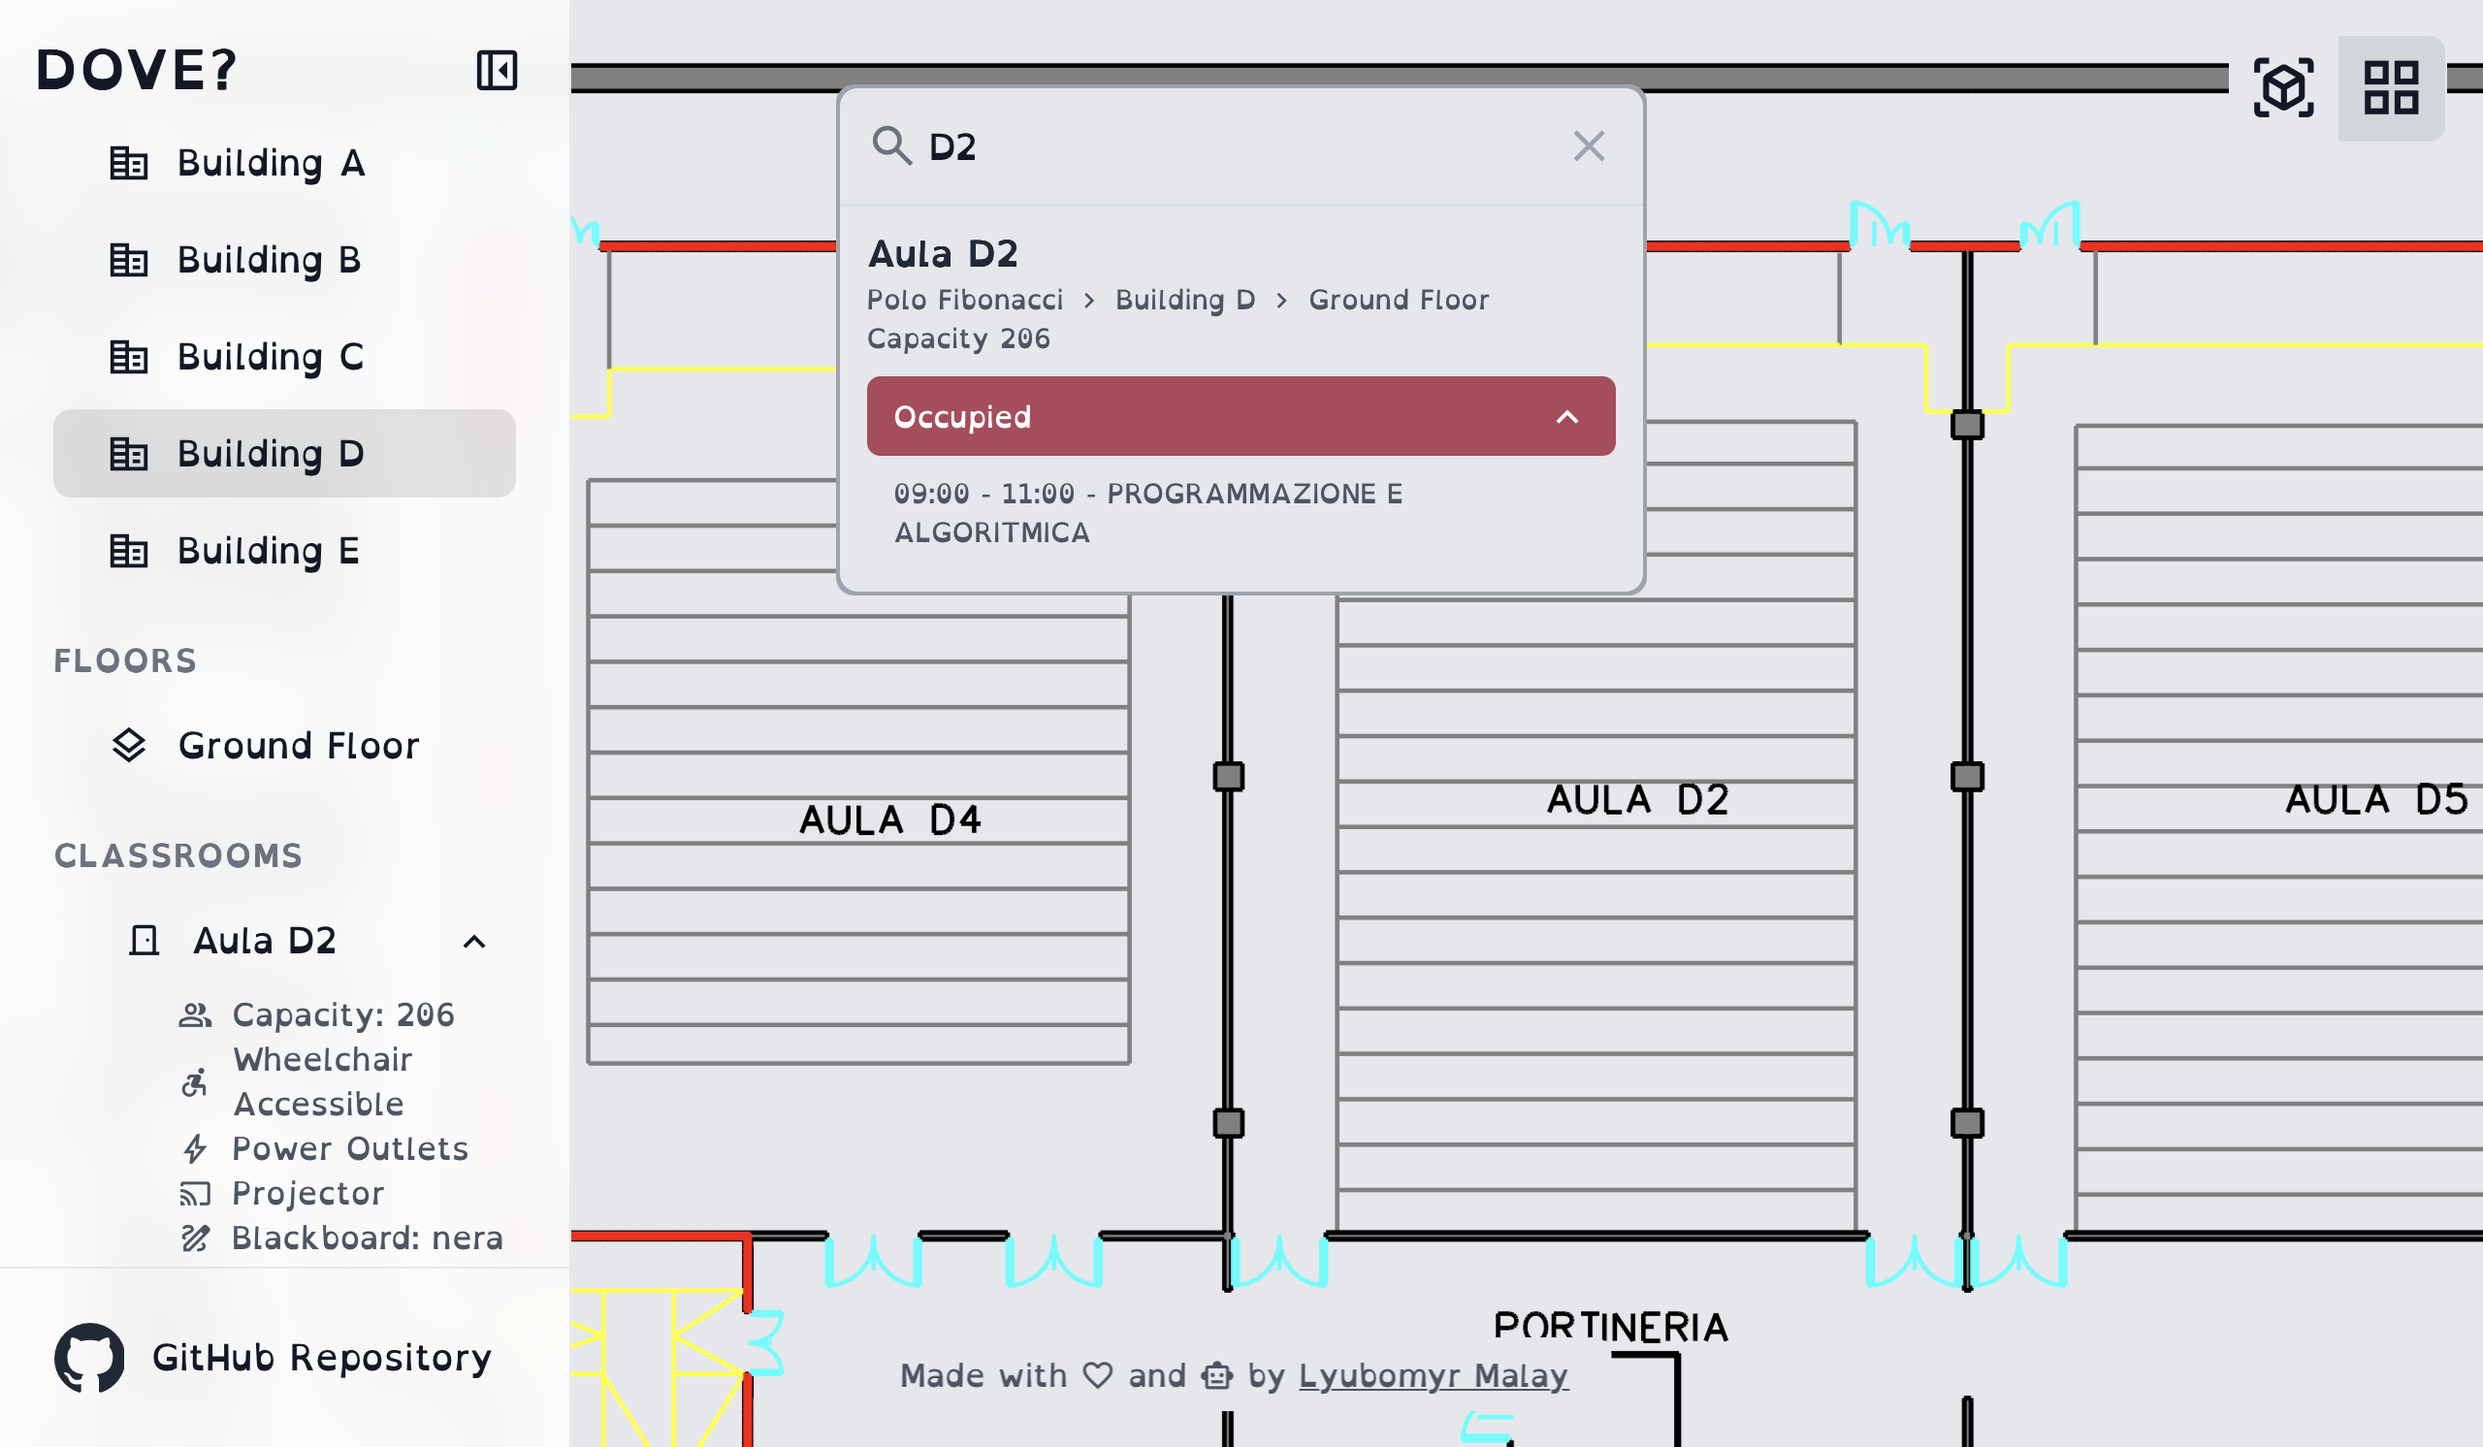
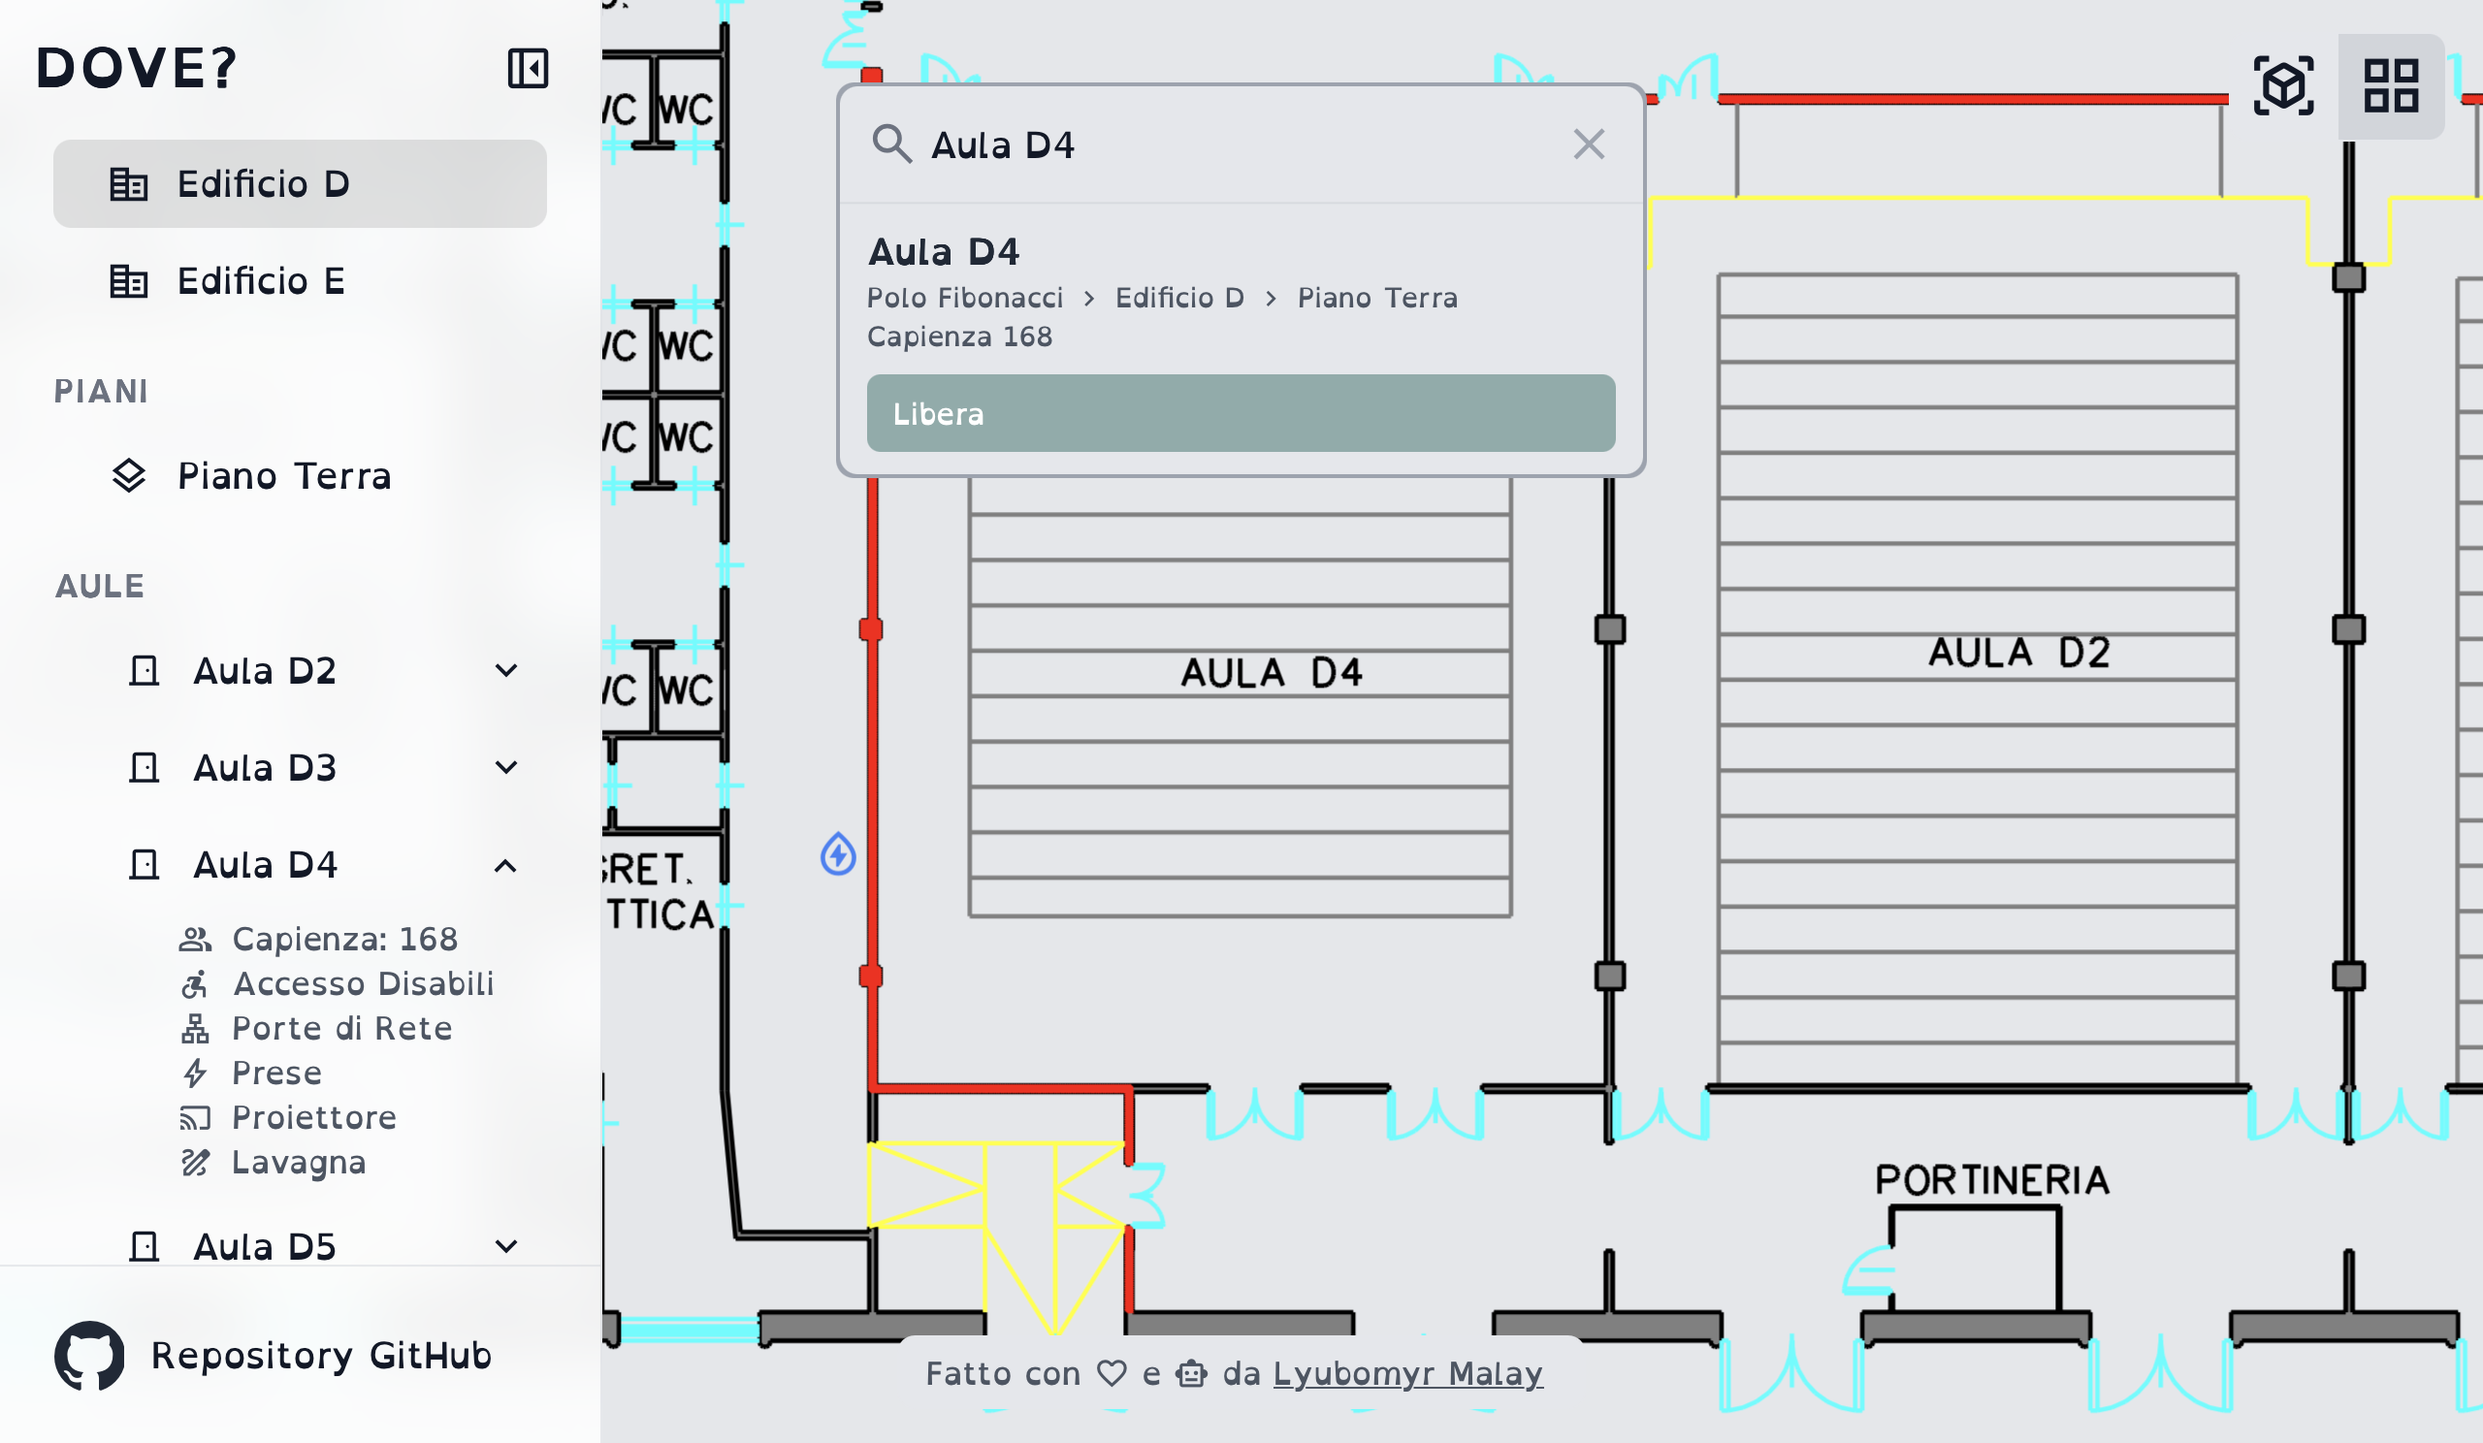
🐧
Aggiunto un leggero feedback visivo per incentivare ad aprire la sidebar.
Aggiunta la possibilità di cercare aule esatte utilizzando le virgolette " ".
I pin sulla mappa si ruotano quando la mappa viene ruotata.
Risolto il bug visivo dell’espansione dei dettagli nella sidebar che risultavano non allineati.
Risolto (forse) il problema dell’hover su mobile.
Rimosso il delay dalla ricerca.

diff --git a/index.html b/index.html
@@ -927,6 +927,9 @@ RMMMMRMMMMME        EMMMMMMMMMMMMM!
 
         #sidebar {
             transition: transform 0.3s ease-in-out;
+            max-width: 270px;
+            min-width: 270px;
+            width: 270px;
         }
 
         /* Stile per l'hover degli elementi */
@@ -949,6 +952,13 @@ RMMMMRMMMMME        EMMMMMMMMMMMMM!
             .hover-text-effect:hover {
                 color: #1F2937;
                 /* gray-800 */
+            }
+        }
+
+        /* Reset hover effects on touch devices to prevent sticky hover */
+        @media (hover: none) {
+            .nav-item:hover {
+                background-color: transparent;
             }
         }
 
@@ -1084,6 +1094,9 @@ RMMMMRMMMMME        EMMMMMMMMMMMMM!
             font-weight: 500;
             gap: 8px;
             transition: all 0.3s ease;
+            max-width: 100%;
+            box-sizing: border-box;
+            overflow: hidden;
         }
 
         .occupancy-status-bar.loading {
@@ -1118,12 +1131,20 @@ RMMMMRMMMMME        EMMMMMMMMMMMMM!
             }
         }
 
+        .occupancy-text {
+            flex: 1 1 auto;
+            word-wrap: break-word;
+            overflow-wrap: break-word;
+            white-space: normal;
+        }
+
         .occupancy-expand-icon {
             margin-left: auto;
             transition: transform 0.3s ease;
             cursor: pointer;
             font-size: 20px;
             user-select: none;
+            flex-shrink: 0;
         }
 
         .occupancy-expand-icon.expanded {
@@ -1146,6 +1167,9 @@ RMMMMRMMMMME        EMMMMMMMMMMMMM!
             font-size: 12px;
             color: #4b5563;
             line-height: 1.5;
+            word-wrap: break-word;
+            overflow-wrap: break-word;
+            white-space: normal;
         }
 
         .occupancy-details-content strong {
@@ -1265,6 +1289,11 @@ RMMMMRMMMMME        EMMMMMMMMMMMMM!
 
         #map.map-flipped {
             transform: rotate(180deg) translateZ(0);
+        }
+
+        /* Ruota le icone dei servizi quando la mappa è girata per mantenerle dritte */
+        #map.map-flipped .water-dispenser-marker .material-symbols-outlined {
+            transform: rotate(180deg);
         }
 
         .leaflet-map-pane,
@@ -1418,6 +1447,25 @@ RMMMMRMMMMME        EMMMMMMMMMMMMM!
             /* Aggiunto per coerenza */
             justify-content: center;
             /* Aggiunto per coerenza */
+        }
+
+        /* Animazione per invogliare l'apertura della sidebar */
+        @keyframes sidebar-button-pulse {
+            0% {
+                transform: scale(1);
+            }
+
+            50% {
+                transform: scale(1.08);
+            }
+
+            100% {
+                transform: scale(1);
+            }
+        }
+
+        #open-sidebar-button.pulse-animation {
+            animation: sidebar-button-pulse 0.6s ease-in-out 2;
         }
 
         #search-container {
@@ -2258,7 +2306,7 @@ RMMMMRMMMMME        EMMMMMMMMMMMMM!
 
         <!-- Sidebar -->
         <div id="sidebar"
-            class="glass-sidebar text-gray-900 w-64 fixed inset-y-0 left-0 transform -translate-x-full z-50 flex flex-col"
+            class="glass-sidebar text-gray-900 w-80 fixed inset-y-0 left-0 transform -translate-x-full z-50 flex flex-col"
             style="height: 100vh; height: 100dvh; padding-bottom: env(safe-area-inset-bottom, 0px);">
 
             <!-- Intestazione Sidebar -->
@@ -3183,7 +3231,16 @@ RMMMMRMMMMME        EMMMMMMMMMMMMM!
                     return;
                 }
 
-                const queryLower = query.toLowerCase();
+                // Check if query is wrapped in quotes for exact search
+                let queryLower = query.toLowerCase();
+                let isExactSearch = false;
+
+                if ((queryLower.startsWith('"') && queryLower.endsWith('"')) ||
+                    (queryLower.startsWith('"') && queryLower.endsWith('"'))) {
+                    // Remove quotes and mark as exact search
+                    queryLower = queryLower.slice(1, -1).trim();
+                    isExactSearch = true;
+                }
                 const matchesSettingsQuery = queryLower.includes('impostazioni') || queryLower.includes('settings');
                 const matchesShareQuery = queryLower.includes('share') || queryLower.includes('condivid');
                 const matchesFeedbackQuery = queryLower.includes('feedback');
@@ -3289,7 +3346,13 @@ RMMMMRMMMMME        EMMMMMMMMMMMMM!
 
                                     const roomNameLower = room.nome.toLowerCase();
                                     const aliasLower = Array.isArray(room.alias) ? room.alias.map(a => a.toLowerCase()) : [];
-                                    if (roomNameLower.includes(queryLower) || aliasLower.some(a => a.includes(queryLower))) {
+
+                                    // Use exact match when search is in quotes, otherwise use partial match
+                                    const matches = isExactSearch
+                                        ? (roomNameLower === queryLower || aliasLower.some(a => a === queryLower))
+                                        : (roomNameLower.includes(queryLower) || aliasLower.some(a => a.includes(queryLower)));
+
+                                    if (matches) {
                                         results.push({
                                             polo: poloName,
                                             edificio: buildingName,
@@ -3320,7 +3383,12 @@ RMMMMRMMMMME        EMMMMMMMMMMMMM!
                                         const dispenserNameLower = dispenser.nome.toLowerCase();
                                         const aliasLower = Array.isArray(dispenser.alias) ? dispenser.alias.map(a => a.toLowerCase()) : [];
 
-                                        if (dispenserNameLower.includes(queryLower) || aliasLower.some(a => a.includes(queryLower))) {
+                                        // Use exact match when search is in quotes, otherwise use partial match
+                                        const matches = isExactSearch
+                                            ? (dispenserNameLower === queryLower || aliasLower.some(a => a === queryLower))
+                                            : (dispenserNameLower.includes(queryLower) || aliasLower.some(a => a.includes(queryLower)));
+
+                                        if (matches) {
                                             results.push({
                                                 polo: poloName,
                                                 edificio: buildingName,
@@ -3615,6 +3683,9 @@ RMMMMRMMMMME        EMMMMMMMMMMMMM!
                             setTimeout(() => {
                                 expandRoomDetailsInSidebar(result.room.nome);
                             }, 100);
+
+                            // Anima il bottone della sidebar per invogliare l'utente ad aprirla
+                            triggerSidebarButtonAnimation();
 
                             if (isMobile()) {
                                 closeSidebar();
@@ -4094,7 +4165,6 @@ RMMMMRMMMMME        EMMMMMMMMMMMMM!
                 selectedSearchResultIndex = index;
                 if (selectedSearchResultIndex > -1 && items[selectedSearchResultIndex]) {
                     items[selectedSearchResultIndex].classList.add('selected');
-                    // Removed scrollIntoView to avoid automatic highlighting
                 }
             }
 
@@ -4113,7 +4183,7 @@ RMMMMRMMMMME        EMMMMMMMMMMMMM!
                     }
                     searchDebounceTimer = setTimeout(() => {
                         searchRooms(query);
-                    }, 300);
+                    }, 0);
 
                     updateClearButtonsVisibility();
                 });
@@ -4136,19 +4206,37 @@ RMMMMRMMMMME        EMMMMMMMMMMMMM!
                         e.preventDefault();
                         const newIndex = (selectedSearchResultIndex + 1) % items.length;
                         updateSelectedSearchResult(newIndex);
+                        // Scroll into view only when using arrow keys
+                        if (items[newIndex]) {
+                            items[newIndex].scrollIntoView({
+                                behavior: 'smooth',
+                                block: 'nearest',
+                                inline: 'nearest'
+                            });
+                        }
                     } else if (e.key === 'ArrowUp') {
                         e.preventDefault();
                         const newIndex = (selectedSearchResultIndex - 1 + items.length) % items.length;
                         updateSelectedSearchResult(newIndex);
+                        // Scroll into view only when using arrow keys
+                        if (items[newIndex]) {
+                            items[newIndex].scrollIntoView({
+                                behavior: 'smooth',
+                                block: 'nearest',
+                                inline: 'nearest'
+                            });
+                        }
                     } else if (e.key === 'Enter') {
                         e.preventDefault();
 
                         // Se c'è un solo risultato, selezionalo automaticamente
                         if (items.length === 1) {
                             items[0].click();
+                            inputElement.blur();
                         } else if (selectedSearchResultIndex > -1 && items[selectedSearchResultIndex]) {
                             // Se c'è un elemento selezionato con le frecce, cliccalo
                             items[selectedSearchResultIndex].click();
+                            inputElement.blur();
                         } else {
                             // Altrimenti, se c'è un suggerimento visibile (primo elemento), completalo automaticamente
                             const firstItem = items[0];
@@ -4157,6 +4245,7 @@ RMMMMRMMMMME        EMMMMMMMMMMMMM!
                                 if (isSuggestion) {
                                     // È un suggerimento, cliccalo automaticamente
                                     firstItem.click();
+                                    inputElement.blur();
                                 }
                             }
                         }
@@ -4480,6 +4569,19 @@ RMMMMRMMMMME        EMMMMMMMMMMMMM!
             // Funzione per aprire la sidebar (logica unificata)
             function openSidebar() {
                 sidebar.classList.remove('-translate-x-full');
+            }
+
+            // Funzione per animare il bottone della sidebar come feedback visivo
+            function triggerSidebarButtonAnimation() {
+                // Controlla se la sidebar è chiusa prima di animare
+                if (sidebar.classList.contains('-translate-x-full')) {
+                    openSidebarBtn.classList.add('pulse-animation');
+
+                    // Rimuovi la classe dopo l'animazione per permettere animazioni future
+                    setTimeout(() => {
+                        openSidebarBtn.classList.remove('pulse-animation');
+                    }, 1200); // 0.6s * 2 ripetizioni = 1.2s
+                }
             }
 
             // Event Listener per il bottone Apri
@@ -4881,6 +4983,15 @@ RMMMMRMMMMME        EMMMMMMMMMMMMM!
                         if (roomInfo && expandIcon) {
                             roomInfo.classList.remove('hidden');
                             expandIcon.style.transform = 'rotate(180deg)';
+
+                            // Scrolla la sidebar fino alla posizione dell'aula
+                            setTimeout(() => {
+                                element.scrollIntoView({
+                                    behavior: 'smooth',
+                                    block: 'center',
+                                    inline: 'nearest'
+                                });
+                            }, 100);
                         }
                     }
                 });

diff --git a/README.md b/README.md
@@ -351,7 +351,7 @@ graph TB
 Effettua una ricerca non solo sul nome dell’aula ma anche sui suoi **alias**. Una volta selezionata, l’aula verrà automaticamente zoomata sulla sua posizione (ovviamente, se le coordinate sono presenti nel file rooms.json).
 
 Supporta inoltre **filtri avanzati**: ad esempio, scrivendo `> 200` verranno mostrate le aule con capienza superiore a 200.  
-Sono supportati gli operatori: `<`, `>`, `==`, `=`, `>=`, `<=`.
+Sono supportati gli operatori: `<`, `>`, `==`, `=`, `>=`, `<=`, `" "`.
 
 Puoi accedere alle **impostazioni** digitando `impostazioni` o `settings` nella barra di ricerca.  
 Da lì puoi abilitare anche le **funzionalità sperimentali**.
